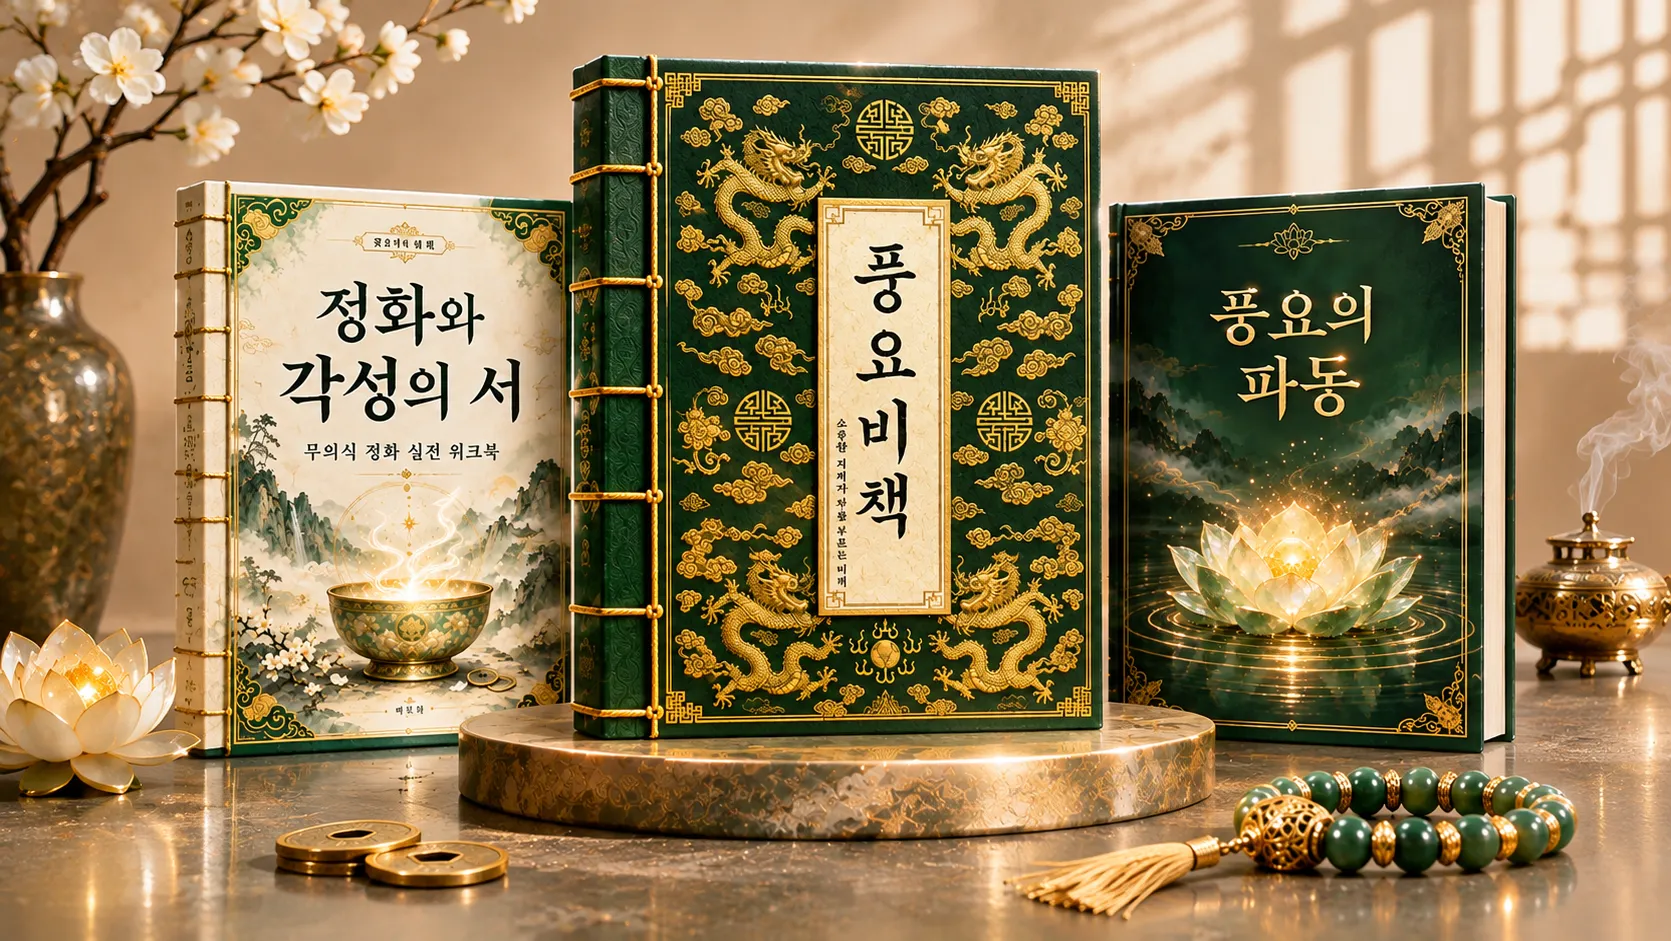
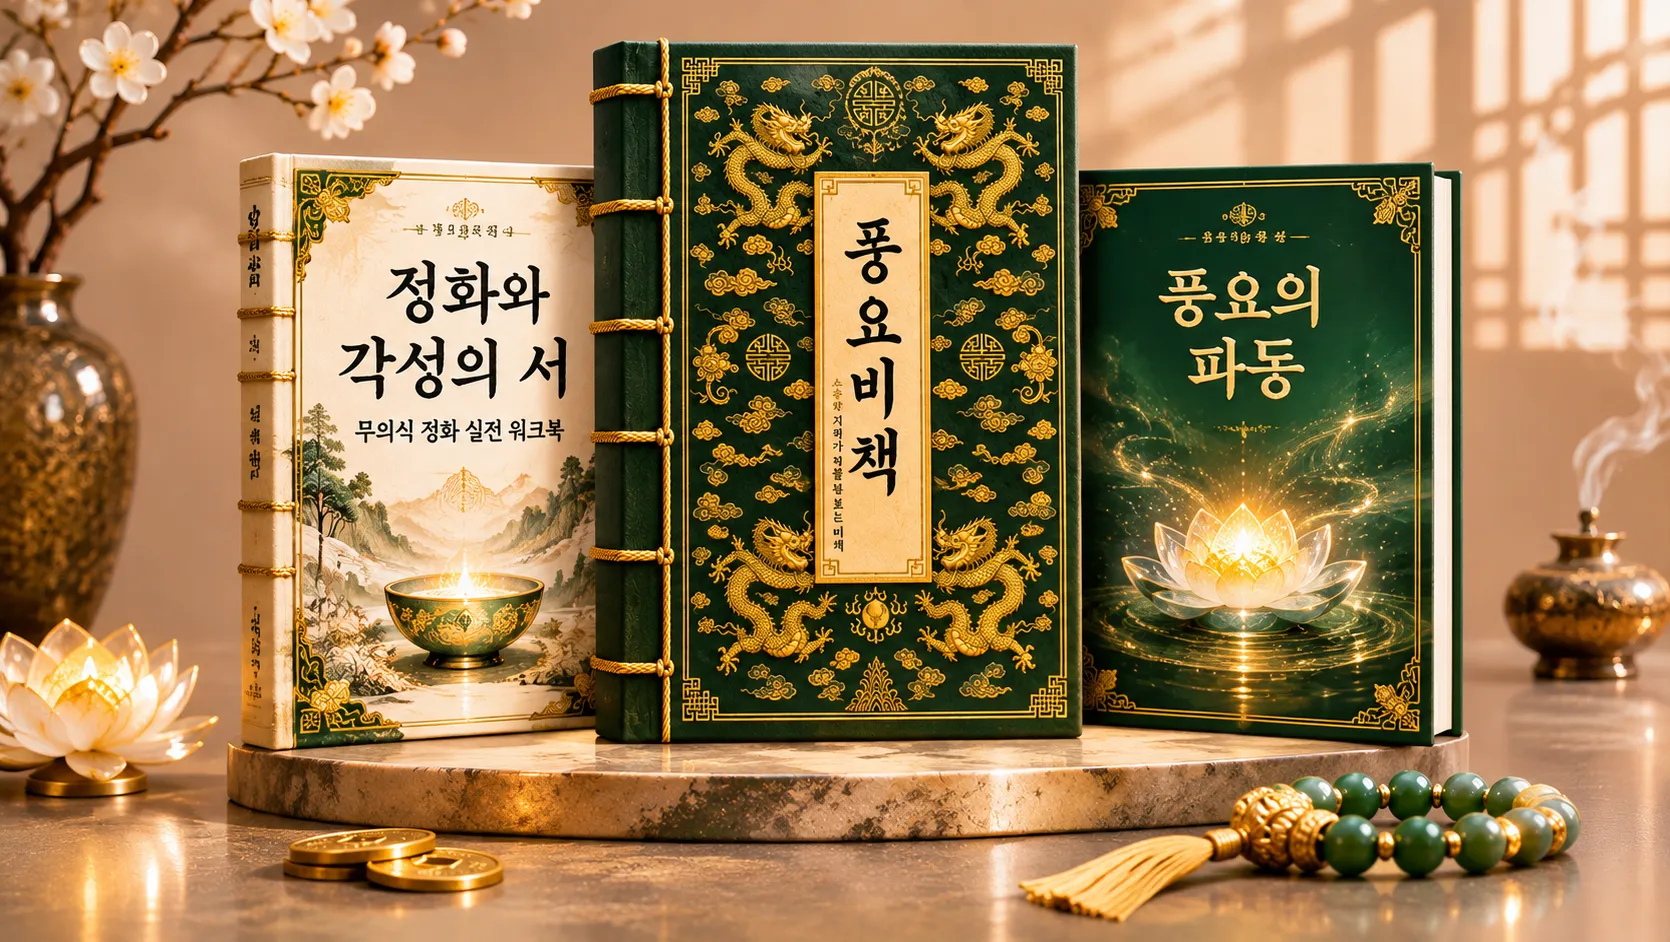
feat: 풍요비책 커리큘럼 소개 및 부의 그릇의 법칙, 황금빛 풍요의 주권자 신규 섹션 추가

diff --git a/app/reports/abundance-secret/page.tsx b/app/reports/abundance-secret/page.tsx
@@ -54,7 +54,13 @@ const productData = {
   topBannerImage: '/image/abundance-secret/korean-hanbok-abundance.webp',
   heroImage: '/image/abundance-secret/korean-hanbok-abundance.webp',
   overviewImage: '/image/abundance-secret/golden-abundance.webp',
-  recommendedImage: '/image/abundance/a3.webp',
+  recommendedImage: '/image/abundance-secret/abundance-secret-recommended-for-you.webp',
+  // 💡 [커리큘럼 & 아키텍처] 16:9 와이드 인포그래픽 이미지 경로
+  curriculumImage: '/image/abundance-secret/abundance-vessel-golden-flow.webp',
+  // 💡 [신규 영역 1] 부의 그릇의 법칙 (3:2 인포그래픽 다이어그램 이미지 경로)
+  wealthVesselImage: '',
+  // 💡 [신규 영역 2] 황금빛 풍요의 주권자 (16:9 와이드 배너 이미지 경로)
+  sovereignImage: '',
   structureImage: '/image/abundance-secret/abundance-transformation.webp',
   premiumImage: '/image/abundance-secret/abundance-secret-book-luxury-flatlay.webp',
   ctaImage: '/image/abundance-secret/abundance-celadon-ritual-banner.webp',
@@ -1222,10 +1228,58 @@ export default function AbundanceSecretPage() {
                   <div className="relative w-full aspect-[3/4] overflow-hidden rounded-[40px] border border-white/10 shadow-2xl">
                     <Image
                       src={productData.recommendedImage}
-                      alt="풍요를 지닌 성숙한 여성을 상징하는 이미지"
+                      alt="풍요비책 이런 분께 추천합니다 안내 이미지"
                       fill
-                      className="object-cover"
+                      sizes="(max-width: 1024px) 100vw, 50vw"
+                      className="object-cover object-center"
+                      priority
                     />
+                  </div>
+                </div>
+              </Reveal>
+            </section>
+
+            <EmeraldCloudDivider />
+
+            {/* ═══════════════════════════════════════════════════════════════
+                신규 섹션: CURRICULUM & ARCHITECTURE (풍요의 내면 설계도)
+               ═══════════════════════════════════════════════════════════════ */}
+            <section className="mb-28 text-left w-full max-w-[1280px] mx-auto">
+              <Reveal>
+                <div className="py-4">
+                  {/* 커리큘럼 & 아키텍처 상단 헤드라인 */}
+                  <div className="text-center mb-10 md:mb-14 space-y-5 break-keep">
+                    {/* 골드 라벨 (12pt) */}
+                    <span className="text-[#C2A477] font-elegant text-[12pt] font-semibold tracking-[0.2em] uppercase block">
+                      CURRICULUM &amp; ARCHITECTURE
+                    </span>
+
+                    {/* 메인 타이틀 (36px) */}
+                    <h2 className="text-2xl md:text-[36px] font-elegant font-bold text-[#FAF7F2] leading-[1.4] break-keep">
+                      &ldquo;풍요를 운에 맡기지 마십시오.<br />
+                      <span className="text-[#C2A477]">《풍요비책》이 안내하는 풍요의 내면 설계도</span>&rdquo;
+                    </h2>
+
+                    {/* 서브 설명 (18px) */}
+                    <p className="text-[#EDE6DA]/85 text-[17px] md:text-[18px] max-w-3xl mx-auto font-normal leading-[1.8] break-keep">
+                      결핍의 순환에서 벗어나, 풍요를 받아들이고 다루는 내면의 원리부터<br className="hidden sm:inline" />
+                      삶에 적용하는 구체적인 실천 방법까지 체계적으로 담았습니다.
+                    </p>
+                  </div>
+
+                  {/* 커리큘럼 & 아키텍처 16:9 와이드 인포그래픽 이미지 영역 */}
+                  <div className="relative w-full rounded-2xl md:rounded-3xl overflow-hidden border border-[#947852]/30 bg-black/40 shadow-[0_12px_40px_rgba(0,0,0,0.6)]">
+                    <div className="relative w-full">
+                      <Image
+                        src={productData.curriculumImage}
+                        alt="풍요비책 커리큘럼 & 아키텍처 인포그래픽: 풍요의 내면 설계도"
+                        width={1671}
+                        height={941}
+                        sizes="(max-width: 1280px) 100vw, 1280px"
+                        className="w-full h-auto object-contain block"
+                        priority
+                      />
+                    </div>
                   </div>
                 </div>
               </Reveal>
@@ -1397,7 +1451,7 @@ export default function AbundanceSecretPage() {
                   <div className="relative w-full rounded-2xl md:rounded-3xl overflow-hidden border border-[#947852]/30 bg-black/40 shadow-[0_12px_40px_rgba(0,0,0,0.6)]">
                     <div className="relative w-full">
                       <Image
-                        src="/image/abundance-secret/abundance-secret-3book-collection.webp"
+                        src="/image/abundance-secret/abundance-secret-3book-collection.webp?v=20261108"
                         alt="풍요비책 3종 올인원 세트 패키지 목업: 풍요비책 완전판, 정화와 각성의 서, 풍요의 파동"
                         width={1671}
                         height={941}
@@ -1863,56 +1917,6 @@ export default function AbundanceSecretPage() {
                       </div>
                     </div>
                   </div>
-
-                  {/* Bonus: 《금옥만당부 모바일 월페이퍼》 */}
-                  <div className="gungjung-glass p-8 md:p-12 border-[#947852]/40 rounded-3xl relative overflow-hidden"
-                    style={{
-                      background: 'linear-gradient(135deg, rgba(120, 158, 144, 0.42) 0%, rgba(18, 38, 32, 0.92) 100%)',
-                      boxShadow: '0 12px 40px rgba(0, 0, 0, 0.4), 0 0 20px rgba(120, 158, 144, 0.08)'
-                    }}>
-                    <div className="grid lg:grid-cols-12 gap-10 items-center">
-                      <div className="lg:col-span-4">
-                        <HybridImageSlot assetKey="amulet" className="w-full aspect-[3/4]" />
-                      </div>
-
-                      <div className="lg:col-span-8 space-y-6 break-keep">
-                        <div>
-                          <span className="inline-block px-3 py-1 rounded-full text-xs font-bold text-[#AA8A57] bg-[#8CD3B6]/25 border border-[#CBEBDE]/40 mb-3">
-                            ⚜ Special Bonus. [디지털 부적]
-                          </span>
-                          <h3 className="text-xl md:text-[24px] font-elegant font-bold text-white mb-2 leading-[1.4] break-keep">
-                            금옥만당부 모바일 월페이퍼
-                          </h3>
-                          <p className="text-[17px] md:text-[18px] text-[#F0EBE2] leading-[1.8] font-normal break-keep">
-                            결핍을 지우고 부와 풍요를 끌어당기는 스마트폰 배경화면용 시각적 에너지 결계
-                          </p>
-                        </div>
-
-                        <div className="p-6 rounded-2xl bg-[#789E90]/32 border border-[#CBEBDE]/40 space-y-4">
-                          <div className="flex flex-wrap items-center justify-between gap-3 border-b border-white/10 pb-4">
-                            <span className="text-[15px] md:text-[16px] font-bold text-white">
-                              구성: 본편 + 실전 워크북 + 특별 외전 + 디지털 부적
-                            </span>
-                            <span className="text-xs px-2.5 py-1 rounded bg-[#8CD3B6]/25 text-[#AA8A57] font-bold border border-[#CBEBDE]/40">
-                              4 in 1 구성
-                            </span>
-                          </div>
-
-                          <div className="flex flex-wrap items-baseline justify-between gap-4">
-                            <div className="space-y-1">
-                              <span className="text-xs text-[#EAE4D8]">정가 79,000원</span>
-                              <div className="text-2xl md:text-3xl font-elegant font-bold text-[#C2A477]">
-                                런칭 특가 19,000원 <span className="text-sm text-white/70 font-sans font-normal">(76% OFF)</span>
-                              </div>
-                            </div>
-                            <span className="text-xs text-[#EAE4D8]">
-                              * 전자책은 3종이며, 디지털 부적을 포함한 4 in 1 구성입니다.
-                            </span>
-                          </div>
-                        </div>
-                      </div>
-                    </div>
-                  </div>
                 </div>
               </Reveal>
             </section>
@@ -2267,6 +2271,207 @@ export default function AbundanceSecretPage() {
                         </div>
                       ))}
                     </div>
+                  </div>
+                </div>
+              </Reveal>
+            </section>
+
+            <EmeraldCloudDivider />
+
+            {/* ═══════════════════════════════════════════════════════════════
+                신규 섹션: Position Shift — 부의 그릇의 법칙 & 황금빛 풍요의 주권자
+               ═══════════════════════════════════════════════════════════════ */}
+            <section className="mb-28 text-left w-full max-w-[1280px] mx-auto">
+              <Reveal>
+                <div>
+                  {/* [신규 영역 1] 부의 그릇의 법칙 상단 텍스트 영역 */}
+                  <div className="text-center max-w-3xl mx-auto space-y-4 mb-10 md:mb-14 break-keep">
+                    <span className="text-[#C2A477] font-elegant text-[12pt] font-semibold tracking-[0.2em] uppercase block">
+                      POSITION SHIFT
+                    </span>
+                    <h2 className="text-2xl md:text-[36px] font-elegant font-bold text-[#FAF7F2] leading-[1.4] break-keep">
+                      &ldquo;열심히 일해도 풍요가 머물지 않았던 이유,<br className="hidden sm:inline" />
+                      어쩌면 <span className="text-[#C2A477]">&lsquo;부의 그릇&rsquo;</span>을 돌보지 않았기 때문입니다.&rdquo;
+                    </h2>
+                    <div className="text-[17px] md:text-[18px] text-[#EDE6DA]/85 leading-[1.8] font-normal break-keep space-y-2">
+                      <p>
+                        돈을 더 많이 버는 방법만 고민하는 동안,<br className="hidden sm:inline" />
+                        우리는 돈을 대하는 내면의 습관을 놓치곤 합니다.
+                      </p>
+                      <p>
+                        결핍에 쫓기던 마음을 돌아보고,<br className="hidden sm:inline" />
+                        이제 풍요를 담을 수 있는 나만의 그릇을 만들어보세요.
+                      </p>
+                    </div>
+                  </div>
+
+                  {/* [신규 영역 1] 하단: 부의 그릇의 법칙 비교 다이어그램 이미지 영역 (aspect-[3/2]) */}
+                  <div className="relative w-full aspect-[3/2] rounded-2xl md:rounded-3xl overflow-hidden border border-[#947852]/30 shadow-[0_12px_45px_rgba(0,0,0,0.6)] bg-black/40 flex items-center justify-center">
+                    {productData.wealthVesselImage ? (
+                      <Image
+                        src={productData.wealthVesselImage}
+                        alt="열심히 일해도 풍요가 머물지 않았던 이유, 부의 그릇의 법칙 비교 인포그래픽"
+                        fill
+                        sizes="(max-width: 1200px) 100vw, 1152px"
+                        className="object-contain"
+                        priority
+                      />
+                    ) : (
+                      /* 최종 이미지 교체 전에도 레이아웃이 무너지지 않는 세련된 인포그래픽 카드 */
+                      <div className="w-full h-full p-6 sm:p-10 md:p-14 flex flex-col justify-between relative overflow-hidden"
+                        style={{
+                          background: 'linear-gradient(135deg, rgba(20, 44, 37, 0.85) 0%, rgba(10, 22, 19, 0.95) 100%)'
+                        }}>
+                        {/* 배경 은은한 격자 & 오라 */}
+                        <div className="absolute inset-0 bg-[radial-gradient(circle_at_50%_50%,rgba(120,158,144,0.18)_0%,transparent_70%)] pointer-events-none" />
+
+                        {/* 상단 라벨 */}
+                        <div className="text-center relative z-10">
+                          <span className="inline-block px-4 py-1.5 rounded-full text-xs md:text-sm font-elegant font-bold text-[#C2A477] bg-[#8CD3B6]/20 border border-[#CBEBDE]/35">
+                            부의 그릇의 법칙 · THE LAW OF WEALTH VESSEL
+                          </span>
+                        </div>
+
+                        {/* 좌우 비교 카드 (왼쪽: 결핍에 쫓기는 사람 vs 오른쪽: 풍요를 담는 사람) */}
+                        <div className="grid grid-cols-1 md:grid-cols-2 gap-6 md:gap-10 relative z-10 my-auto items-stretch">
+                          {/* 왼쪽: 결핍에 쫓기는 사람 */}
+                          <div className="p-5 sm:p-6 md:p-8 rounded-2xl bg-[#111B1E]/90 border border-[#45534E] flex flex-col justify-between space-y-4 shadow-lg">
+                            <div className="flex items-center justify-between border-b border-white/10 pb-3">
+                              <span className="px-3 py-1 rounded bg-[#303A3A] text-xs font-bold text-[#E5DED0]">
+                                결핍에 쫓기는 사람
+                              </span>
+                              <span className="text-xs text-[#C3C8C2]/60 font-mono">SCARCITY LOOP</span>
+                            </div>
+                            <div className="space-y-3">
+                              <div className="flex items-center gap-2.5 text-[#F1EBE2] text-sm md:text-base font-medium">
+                                <span className="w-1.5 h-1.5 rounded-full bg-[#87465B]" />
+                                <span>가격표 강박</span>
+                              </div>
+                              <div className="flex items-center gap-2.5 text-[#F1EBE2] text-sm md:text-base font-medium">
+                                <span className="w-1.5 h-1.5 rounded-full bg-[#87465B]" />
+                                <span>지출 죄책감</span>
+                              </div>
+                              <div className="flex items-center gap-2.5 text-[#F1EBE2] text-sm md:text-base font-medium">
+                                <span className="w-1.5 h-1.5 rounded-full bg-[#87465B]" />
+                                <span>노동 집착</span>
+                              </div>
+                            </div>
+                            <p className="text-xs text-[#C3C8C2] pt-2 border-t border-white/5">
+                              돈을 쫓지만 늘 마음이 메마른 상태
+                            </p>
+                          </div>
+
+                          {/* 오른쪽: 풍요를 담는 사람 */}
+                          <div className="p-5 sm:p-6 md:p-8 rounded-2xl bg-[#294B45]/90 border border-[#668B7C] flex flex-col justify-between space-y-4 shadow-lg">
+                            <div className="flex items-center justify-between border-b border-[#668B7C]/40 pb-3">
+                              <span className="px-3 py-1 rounded bg-[#B79A6A] text-xs font-bold text-[#201D18]">
+                                풍요를 담는 사람
+                              </span>
+                              <span className="text-xs text-[#C2A477]/80 font-mono">ABUNDANCE VESSEL</span>
+                            </div>
+                            <div className="space-y-3">
+                              <div className="flex items-center gap-2.5 text-[#FFF5E6] text-sm md:text-base font-medium">
+                                <span className="w-1.5 h-1.5 rounded-full bg-[#C2A477]" />
+                                <span>무의식 정화</span>
+                              </div>
+                              <div className="flex items-center gap-2.5 text-[#FFF5E6] text-sm md:text-base font-medium">
+                                <span className="w-1.5 h-1.5 rounded-full bg-[#C2A477]" />
+                                <span>풍요의 확신</span>
+                              </div>
+                              <div className="flex items-center gap-2.5 text-[#FFF5E6] text-sm md:text-base font-medium">
+                                <span className="w-1.5 h-1.5 rounded-full bg-[#C2A477]" />
+                                <span>선택의 여유</span>
+                              </div>
+                            </div>
+                            <p className="text-xs text-[#E0E8DF] pt-2 border-t border-[#668B7C]/30">
+                              부가 스스로 머무는 견고한 그릇의 완성
+                            </p>
+                          </div>
+                        </div>
+
+                        {/* 하단 안내 주석 */}
+                        <div className="text-center text-[11px] text-[#AA8A57]/60 font-mono relative z-10">
+                          ※ 인포그래픽 최종 이미지가 등록되면 위 영역이 고해상도 그래픽으로 자동 대체됩니다.
+                        </div>
+                      </div>
+                    )}
+                  </div>
+
+                  {/* [신규 영역 2] 황금빛 풍요의 주권자 브릿지 카피 (mt-28 md:mt-40) */}
+                  <div className="text-center max-w-3xl mx-auto space-y-4 md:space-y-5 mt-28 md:mt-40 break-keep">
+                    <span className="text-[#C2A477] font-elegant text-[12pt] font-semibold tracking-[0.2em] uppercase block">
+                      SOVEREIGN OF ABUNDANCE
+                    </span>
+                    <h3
+                      className="text-[26px] sm:text-[30px] md:text-[36px] font-elegant font-bold text-[#FAF7F2] break-keep"
+                      style={{ lineHeight: 1.4 }}
+                    >
+                      “결핍과 조급함에 쫓기던 자리를 떠나,<br />
+                      이제 스스로 <span className="text-[#C2A477]">‘풍요의 주권자’</span>가 되십시오.”
+                    </h3>
+
+                    <div className="space-y-3 text-[17px] md:text-[18px] text-[#EDE6DA]/85 leading-[1.8] font-normal break-keep pt-2">
+                      <p>
+                        돈 앞에서 불안해하며 스스로를 작게 만들었던 순간들.
+                      </p>
+                      <p>
+                        이제는 내면의 결핍을 돌아보고,<br className="hidden sm:inline" />
+                        나의 가치를 믿으며 풍요를 선택하는 삶으로 나아갈 시간입니다.
+                      </p>
+                      <p className="text-[#C2A477] font-bold font-elegant text-[18px] md:text-[20px] pt-1">
+                        돈을 쫓는 삶에서, 풍요를 담아내는 삶으로.
+                      </p>
+                    </div>
+                  </div>
+
+                  {/* [신규 영역 2] 하단: 황금빛 풍요의 주권자 16:9 와이드 배너 이미지 (mt-12 md:mt-16) */}
+                  <div className="relative w-full aspect-[1672/941] rounded-2xl md:rounded-3xl overflow-hidden border border-[#947852]/30 shadow-[0_12px_45px_rgba(0,0,0,0.6)] bg-black/40 flex items-center justify-center mt-12 md:mt-16">
+                    {productData.sovereignImage ? (
+                      <Image
+                        src={productData.sovereignImage}
+                        alt="풍요를 끌어당기는 황금빛 풍요의 주권자"
+                        fill
+                        sizes="(max-width: 1280px) 100vw, 1280px"
+                        className="object-cover"
+                        priority
+                      />
+                    ) : (
+                      /* 최종 배너 이미지 교체 전에도 품격 있게 표시되는 16:9 와이드 카드 */
+                      <div className="w-full h-full p-8 sm:p-12 md:p-16 lg:p-20 flex flex-col justify-between relative overflow-hidden text-left"
+                        style={{
+                          background: 'radial-gradient(ellipse at 80% 50%, rgba(120, 158, 144, 0.45) 0%, rgba(18, 38, 32, 0.95) 70%, rgba(10, 20, 18, 1) 100%)'
+                        }}>
+                        {/* 은은한 배경 오라 */}
+                        <div className="absolute -right-20 -bottom-20 w-96 h-96 rounded-full bg-[#C2A477]/10 blur-3xl pointer-events-none" />
+
+                        {/* 상단 서브 카피 */}
+                        <div className="relative z-10 space-y-2">
+                          <span className="text-xs md:text-sm font-elegant tracking-[0.25em] text-[#C2A477] uppercase block">
+                            THE SOVEREIGN MINDSET
+                          </span>
+                          <p className="text-lg sm:text-xl md:text-2xl font-light text-[#EDE6DA] leading-relaxed break-keep">
+                            조급함을 내려놓고,<br />
+                            내 안의 그릇을 온전히 채워갈 때
+                          </p>
+                        </div>
+
+                        {/* 하단 메인 타이틀 */}
+                        <div className="relative z-10 pt-6">
+                          <p className="text-xl sm:text-2xl md:text-3xl lg:text-4xl font-elegant font-bold text-white leading-tight break-keep">
+                            풍요를 끌어당기는<br />
+                            <span className="text-[#C2A477]">황금빛 풍요의 주권자</span>
+                          </p>
+                        </div>
+
+                        {/* 우측 연꽃 장식 심볼 */}
+                        <div className="absolute right-8 md:right-16 bottom-8 md:bottom-12 opacity-25 pointer-events-none text-[#C2A477]">
+                          <svg className="w-32 h-32 md:w-48 md:h-48" viewBox="0 0 64 64" fill="none" stroke="currentColor" strokeWidth="1">
+                            <path d="M32 8 C30 18, 22 26, 12 28 C22 30, 30 38, 32 48 C34 38, 42 30, 52 28 C42 26, 34 18, 32 8 Z" fill="currentColor" fillOpacity="0.1" />
+                            <circle cx="32" cy="28" r="4" fill="currentColor" />
+                          </svg>
+                        </div>
+                      </div>
+                    )}
                   </div>
                 </div>
               </Reveal>
